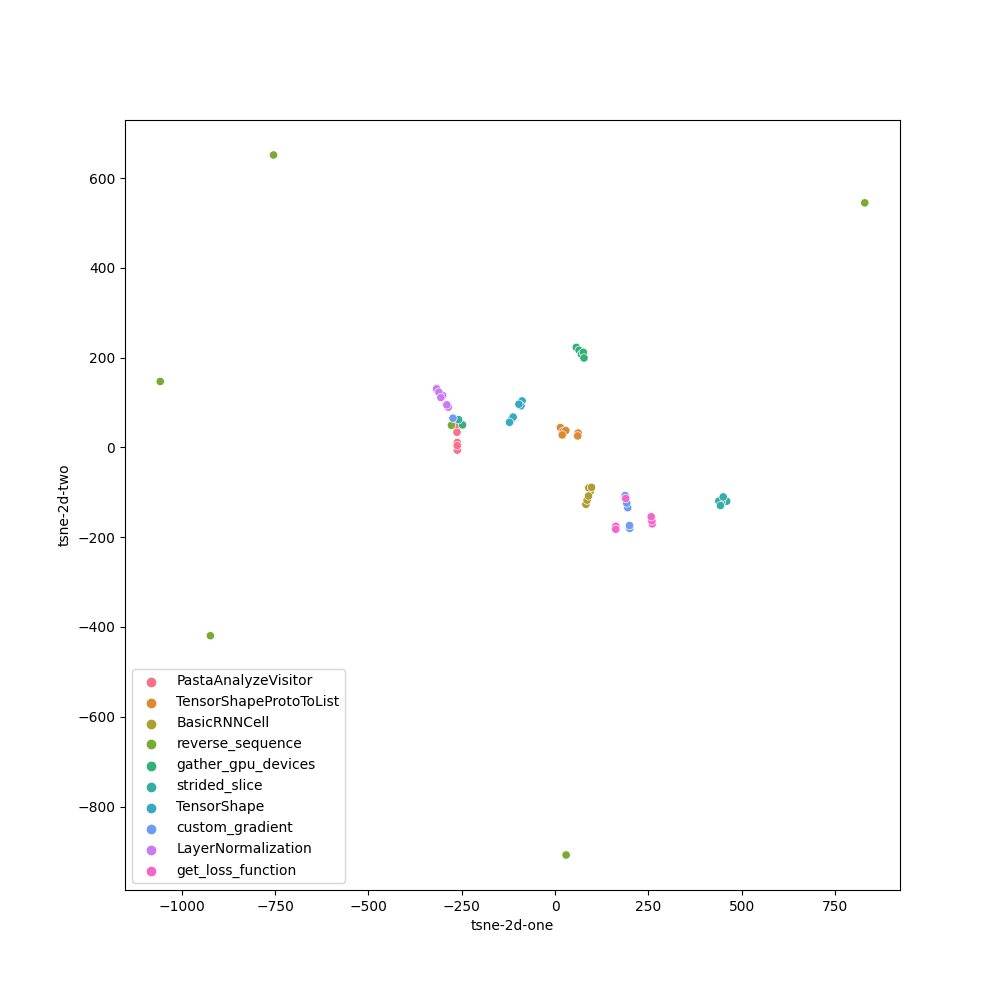
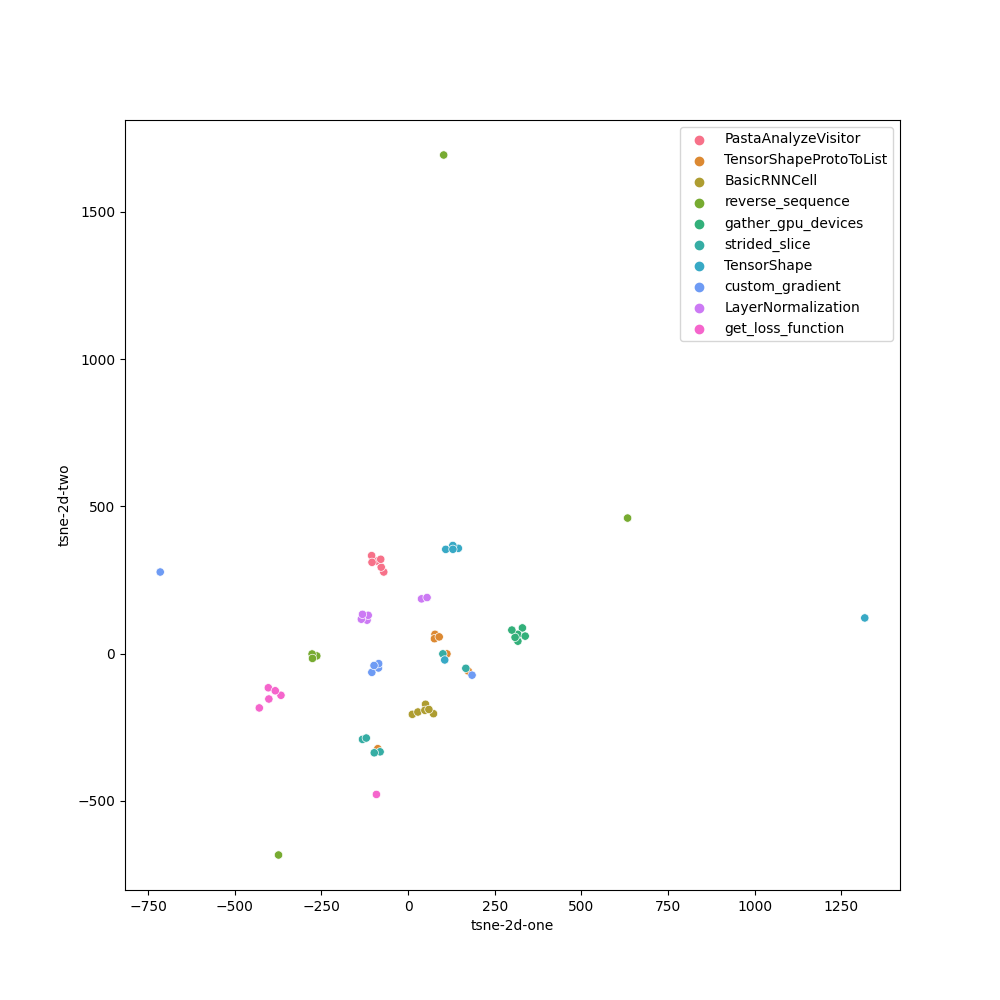
Improve Doc2Vec (Gensim Tutorial)

diff --git a/search-data.py b/search-data.py
@@ -1,7 +1,6 @@
 from gensim.similarities import SparseMatrixSimilarity, MatrixSimilarity
 from gensim.models.doc2vec import Doc2Vec, TaggedDocument
-from gensim.parsing.preprocessing import remove_stopwords
-from gensim.parsing.preprocessing import STOPWORDS
+from gensim.parsing.preprocessing import preprocess_string, remove_stopwords, stem_text
 from gensim.models import TfidfModel, LsiModel
 from gensim.corpora import Dictionary, MmCorpus
 from collections import defaultdict
@@ -41,9 +40,14 @@ def doc2vec_query(query):
     return list_top_5_index
 
 
-def read_corpus(corpus):
+def read_corpus(corpus, tokens_only=False):
     for i, line in enumerate(corpus):
-        yield gensim.models.doc2vec.TaggedDocument(line, [i])
+        line = " ".join(line)
+        tokens = gensim.utils.simple_preprocess(line)
+        if tokens_only:
+            yield tokens
+        else:
+            yield gensim.models.doc2vec.TaggedDocument(tokens, [i])
 
 
 def doc2vec_train(corpus):
@@ -52,7 +56,7 @@ def doc2vec_train(corpus):
     train_corpus = list(read_corpus(corpus))
 
     if os.path.exists("utils/doc2vec/model"):
-        model = Doc2Vec.load("utils/doc2vec/model")
+        pass
     else:
         model = Doc2Vec(vector_size=300, min_count=2, epochs=40)
         model.build_vocab(train_corpus)
@@ -103,7 +107,7 @@ def lsi_train():
         lsi.save("utils/lsi/model")
     corpus_lsi = lsi[corpus_tf_idf]
 
-    MmCorpus.serialize("utils/lsi/corpus_lsi", corpus_lsi)  # save corpus
+    MmCorpus.serialize("utils/lsi/corpus_lsi", corpus_lsi)
 
 
 def tf_idf_query(query):
@@ -165,42 +169,16 @@ def process_corpus(corpus):
     MmCorpus.serialize("utils/corpus", corpus_bow)
 
 
-def remove_stopwords(text):
-    """
-    STOPWORDS are from Gensim.
-    """
-    edited_stopwords = STOPWORDS.union(set(["test", "tests", "main"]))
-    edited_stopwords = edited_stopwords.difference(
-        {"False", "None", "True", "and", "as", "assert", "break", "class", "continue", "def", "del", "elif", "else",
-         "except", "finally", "for", "from", "global", "if", "import", "in", "is", "lambda", "nonlocal", "not", "or",
-         "pass", "raise", "return", "try", "while", "with", "yield", "ArithmeticError", "AssertionError",
-         "AttributeError", "BaseException", "BlockingIOError", "BrokenPipeError", "BufferError", "BytesWarning",
-         "ChildProcessError", "ConnectionAbortedError", "ConnectionError", "ConnectionRefusedError",
-         "ConnectionResetError", "DeprecationWarning", "EOFError", "Ellipsis", "EnvironmentError", "Exception", "False",
-         "FileExistsError", "FileNotFoundError", "FloatingPointError", "FutureWarning", "GeneratorExit", "IOError",
-         "ImportError", "ImportWarning", "IndentationError", "IndexError", "InterruptedError", "IsADirectoryError",
-         "KeyError", "KeyboardInterrupt", "LookupError", "MemoryError", "NameError", "None", "NotADirectoryError",
-         "NotImplemented", "NotImplementedError", "OSError", "OverflowError", "PendingDeprecationWarning",
-         "PermissionError", "ProcessLookupError", "RecursionError", "ReferenceError", "ResourceWarning", "RuntimeError",
-         "RuntimeWarning", "StopAsyncIteration", "StopIteration", "SyntaxError", "SyntaxWarning", "SystemError",
-         "SystemExit", "TabError", "TimeoutError", "True", "TypeError", "UnboundLocalError", "UnicodeDecodeError",
-         "UnicodeEncodeError", "UnicodeError", "UnicodeTranslateError", "UnicodeWarning", "UserWarning", "ValueError",
-         "Warning", "ZeroDivisionError", "_", "build_class", "debug", "doc", "import", "loader", "name", "package",
-         "spec", "abs", "all", "any", "ascii", "bin", "bool", "bytearray", "bytes", "callable", "chr", "classmethod",
-         "compile", "complex", "copyright", "credits", "delattr", "dict", "dir", "divmod", "enumerate", "eval", "exec",
-         "exit", "filter", "float", "format", "frozenset", "getattr", "globals", "hasattr", "hash", "help", "hex", "id",
-         "input", "int", "isinstance", "issubclass", "iter", "len", "license", "list", "locals", "map", "max",
-         "memoryview", "min", "next", "object", "oct", "open", "ord", "pow", "print", "property", "quit", "range",
-         "repr", "reversed", "round", "get", "set", "setattr", "slice", "sorted", "staticmethod", "str", "sum", "super",
-         "tuple", "type", "vars", "zip", "optimizer", "optimize", "RNN", "optim"})
+def remove_method_stopwords(text):
+    stopwords = {"test", "tests", "main"}
     tokenized_text = text.split()
-    words_filtered = [word for word in tokenized_text if word not in edited_stopwords]
+    words_filtered = [word for word in tokenized_text if word not in stopwords]
 
     word = " ".join(words_filtered)
     return word
 
 
-def name_standardization(data):
+def name_standardization(data, type):
     """
     Standardize a method/comment name:
     1. split entity names (by CamelCase and underscore)
@@ -210,7 +188,8 @@ def name_standardization(data):
     """
     words = data.replace("_", " ")  # split by underscore
     words = re.sub(r"((?<=[a-z])[A-Z]|(?<!\A)[A-Z](?=[a-z]))", r" \1", words)  # split by CamelCase
-    words = remove_stopwords(words)  # remove stopwords
+    if type == "method":
+        words = remove_method_stopwords(words)
     words = words.lower()  # convert to lowercase
     words = words.split()  # create a list of separated words
 
@@ -225,8 +204,8 @@ def create_corpus(data):
     for index, row in enumerate(data):
         data_name_comment_standardized.append({
             "csv_line": row["csv_line"],
-            "name": name_standardization(row["name"]),
-            "comment": name_standardization(row["comment"])
+            "name": name_standardization(row["name"], "name"),
+            "comment": name_standardization(row["comment"], "comment")
         })
 
     corpus = []

diff --git a/prec-recall.py b/prec-recall.py
@@ -225,18 +225,18 @@ def ground_truth_txt_to_dict():
 # ----------------------------------------------------------------------------------------------------------------------
 
 def main():
-    search_engines = ["FREQ", "TF_IDF", "LSI", "DOC2VEC"]
-    #search_engines = ["FREQ"]
+    #search_engines = ["FREQ", "TF_IDF", "LSI", "DOC2VEC"]
+    search_engines = ["LSI", "DOC2VEC"]
 
     ground_truth_dict_list = ground_truth_txt_to_dict()
     query_data = query_search_engine(ground_truth_dict_list, search_engines)
 
     measure_precision_and_recall(query_data, search_engines)
 
-    lsi_embeddings = get_embedding_vectors_lsi(query_data)
-    doc2vec_embeddings = get_embedding_vectors_doc2vec(query_data)
-    plot_tsne(doc2vec_embeddings, query_data, "doc2vec")
-    plot_tsne(lsi_embeddings, query_data, "lsi")
+    # lsi_embeddings = get_embedding_vectors_lsi(query_data)
+    # doc2vec_embeddings = get_embedding_vectors_doc2vec(query_data)
+    # plot_tsne(doc2vec_embeddings, query_data, "doc2vec")
+    # plot_tsne(lsi_embeddings, query_data, "lsi")
 
 
 if __name__ == "__main__":
